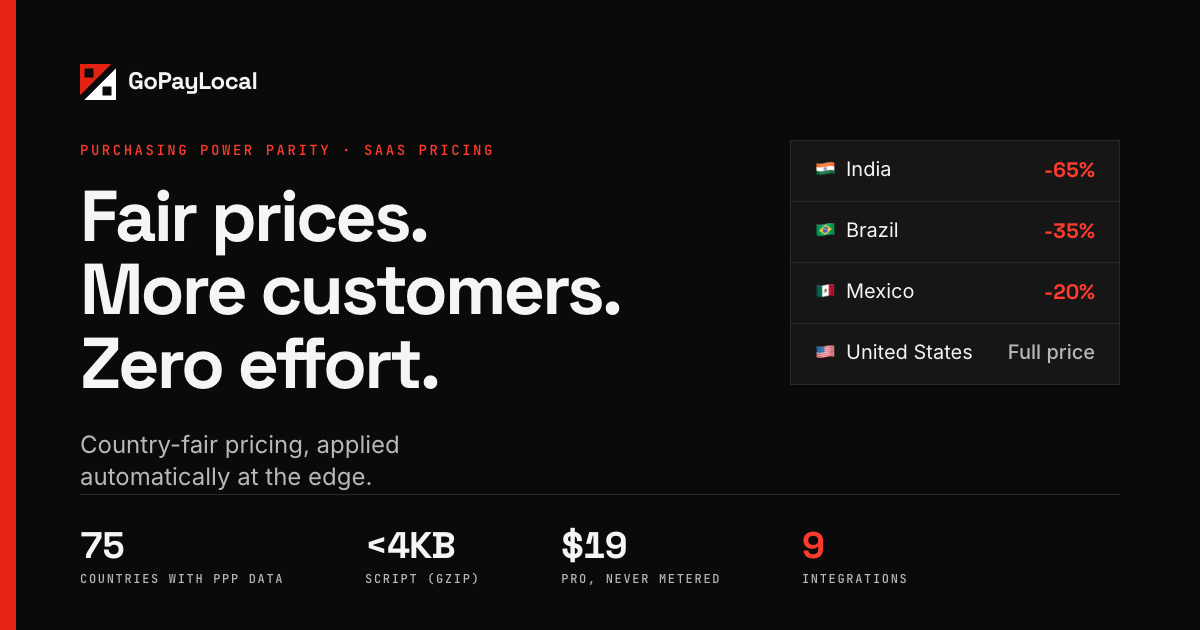
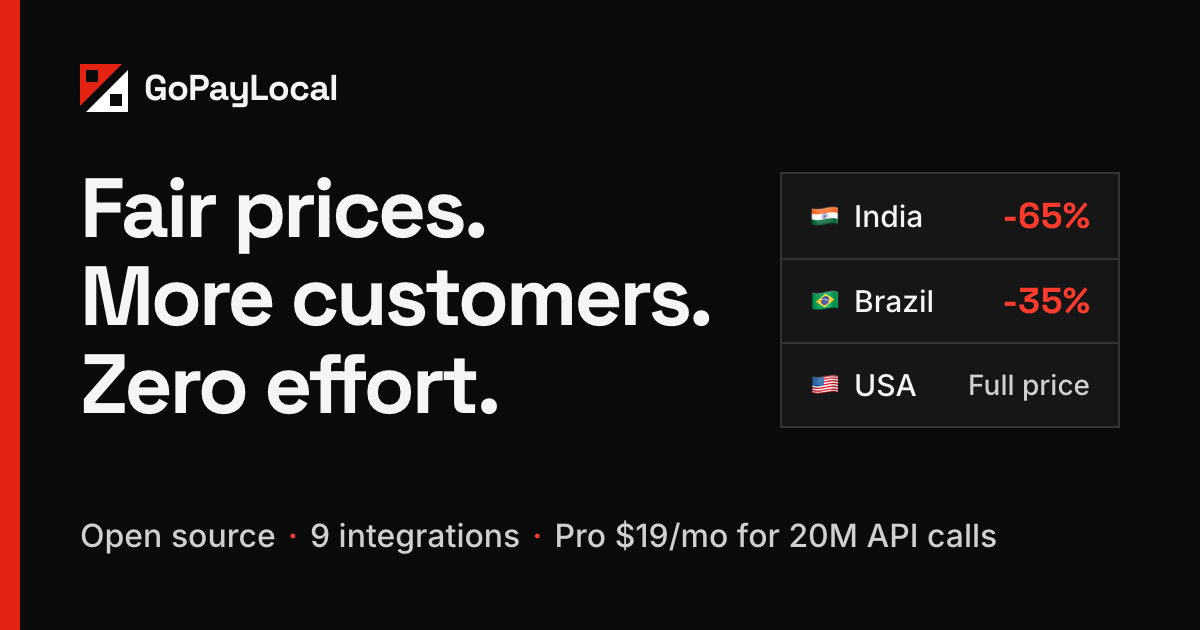
Website: a share image that reads at feed size; Pro's 20M API calls in the stats
Feeds show the share image at about 500px wide, where its 12-24px labels
were unreadable. The new one keeps the logo, the headline, a bigger
three-row country table and one line ("Open source · 9 integrations ·
Pro $19/mo for 20M API calls"), with nothing under 28px.

The $19 stat on the homepage and the developer page now says
"Pro, 20M API calls/mo" instead of "Pro, never metered", from
PRO_FAIR_USE_API_HITS_PER_MONTH.

Claude-Session: https://claude.ai/code/session_01L2XvzdWfxeKtJnPoo1t57u

diff --git a/apps/web/og-image.html b/apps/web/og-image.html
@@ -1,6 +1,7 @@
 <!doctype html>
 <!-- Source of public/og-image.png. Re-render: open this file in Chromium with a 1200x630 viewport at device scale 1, wait for the Google Fonts to load, screenshot the viewport and save it over public/og-image.png.
-     Numbers: 75 = entries in PPP_MULTIPLIERS, <4KB = gzip size of the banner bundle, $19 = PLAN_PRICES_USD.pro.month, 9 = integrations in src/lib/landing-data.ts, table rows = DEFAULT_PARITY_TIERS (packages/shared); update this file when they change. -->
+     Feeds show this image at about 500px wide (300px in chat apps), so nothing here is smaller than 28px. Keep it that way.
+     Numbers: $19 = PLAN_PRICES_USD.pro.month, 20M = PRO_FAIR_USE_API_HITS_PER_MONTH, 9 = integrations in src/lib/landing-data.ts, table rows = DEFAULT_PARITY_TIERS (packages/shared); update this file when they change. -->
 <html lang="en">
 <head>
 <meta charset="utf-8">
@@ -8,14 +9,14 @@
 <title>GoPayLocal OG image</title>
 <link rel="preconnect" href="https://fonts.googleapis.com">
 <link rel="preconnect" href="https://fonts.gstatic.com" crossorigin>
-<link rel="stylesheet" href="https://fonts.googleapis.com/css2?family=Inter:wght@400;500&family=Space+Grotesk:wght@600;700&family=JetBrains+Mono:wght@500&display=block">
+<link rel="stylesheet" href="https://fonts.googleapis.com/css2?family=Inter:wght@500;600&family=Space+Grotesk:wght@700&display=block">
 <style>
   :root {
     --bg: #0A0A0A;
     --surface: #161616;
-    --border: #2A2A2A;
+    --border: #333333;
     --text-1: #F5F5F5;
-    --text-2: #B8B8B8;
+    --text-2: #D0D0D0;
     --accent: #E42313;
     --accent-text: #FF3B2E;
   }
@@ -23,25 +24,20 @@
   html, body { width: 1200px; height: 630px; overflow: hidden; background: var(--bg); }
   body { position: relative; color: var(--text-1); font-family: 'Inter', sans-serif; -webkit-font-smoothing: antialiased; }
   .abs { position: absolute; }
-  .bar { left: 0; top: 0; width: 16px; height: 630px; background: var(--accent); }
-  .brand { left: 80px; top: 64px; display: flex; align-items: center; gap: 12px; }
-  .brand svg { width: 36px; height: 36px; display: block; }
-  .brand span { position: relative; top: -1px; font-family: 'Space Grotesk', sans-serif; font-weight: 700; font-size: 24px; letter-spacing: -0.025em; line-height: 36px; }
-  .tag { left: 80px; top: 140px; font-family: 'JetBrains Mono', monospace; font-weight: 500; font-size: 14px; line-height: 20px; letter-spacing: 0.18em; color: var(--accent-text); white-space: nowrap; }
-  h1 { left: 80px; top: 179.5px; font-family: 'Space Grotesk', sans-serif; font-weight: 700; font-size: 72px; line-height: 73.5px; letter-spacing: -0.04em; white-space: nowrap; }
-  .sub { left: 80px; top: 428.5px; font-size: 24px; line-height: 32px; color: var(--text-2); white-space: nowrap; }
-  .rule { left: 80px; top: 494px; width: 1040px; height: 1px; background: var(--border); }
-  .stats { left: 80px; top: 524px; display: flex; gap: 80.8px; }
-  .stat .num { font-family: 'Space Grotesk', sans-serif; font-weight: 700; font-size: 37px; line-height: 44px; letter-spacing: -0.025em; font-variant-numeric: tabular-nums; }
-  .stat .num.accent { color: var(--accent-text); }
-  .stat .label { margin-top: 3px; font-family: 'JetBrains Mono', monospace; font-weight: 500; font-size: 12px; line-height: 16px; letter-spacing: 0.14em; color: var(--text-2); white-space: nowrap; }
-  .table { left: 790px; top: 140px; width: 330px; border: 1px solid var(--border); background: var(--surface); }
-  .row { height: 60px; display: flex; align-items: center; justify-content: space-between; padding: 0 24px 4px; }
-  .row + .row { border-top: 1px solid var(--border); height: 61px; }
-  .country { display: flex; align-items: center; gap: 10px; font-size: 20px; color: var(--text-1); }
-  .flag { font-size: 18px; line-height: 1; }
-  .pct { font-family: 'Space Grotesk', sans-serif; font-weight: 700; font-size: 21px; color: var(--accent-text); font-variant-numeric: tabular-nums; }
-  .full { font-size: 20px; font-weight: 500; color: var(--text-2); }
+  .bar { left: 0; top: 0; width: 20px; height: 630px; background: var(--accent); }
+  .brand { left: 80px; top: 64px; display: flex; align-items: center; gap: 16px; }
+  .brand svg { width: 48px; height: 48px; display: block; }
+  .brand span { font-family: 'Space Grotesk', sans-serif; font-weight: 700; font-size: 36px; letter-spacing: -0.025em; line-height: 48px; }
+  h1 { left: 80px; top: 164px; font-family: 'Space Grotesk', sans-serif; font-weight: 700; font-size: 84px; line-height: 88px; letter-spacing: -0.04em; white-space: nowrap; }
+  .foot { left: 80px; top: 516px; font-size: 32px; line-height: 40px; font-weight: 500; color: var(--text-2); white-space: nowrap; }
+  .foot b { color: var(--accent-text); font-weight: 600; padding: 0 12px; }
+  .table { right: 80px; top: 172px; width: 340px; border: 2px solid var(--border); background: var(--surface); }
+  .row { height: 84px; display: flex; align-items: center; justify-content: space-between; padding: 0 28px; }
+  .row + .row { border-top: 2px solid var(--border); }
+  .country { display: flex; align-items: center; gap: 14px; font-size: 30px; font-weight: 500; color: var(--text-1); }
+  .flag { font-size: 30px; line-height: 1; }
+  .pct { font-family: 'Space Grotesk', sans-serif; font-weight: 700; font-size: 36px; color: var(--accent-text); font-variant-numeric: tabular-nums; }
+  .full { font-size: 28px; font-weight: 500; color: var(--text-2); }
 </style>
 </head>
 <body>
@@ -55,26 +51,14 @@
     <span>GoPayLocal</span>
   </div>
 
-  <p class="abs tag">PURCHASING POWER PARITY · SAAS PRICING</p>
-
   <h1 class="abs">Fair prices.<br>More customers.<br>Zero effort.</h1>
-
-  <p class="abs sub">Country-fair pricing, applied<br>automatically at the edge.</p>
-
-  <div class="abs rule"></div>
-
-  <div class="abs stats">
-    <div class="stat"><div class="num">75</div><div class="label">COUNTRIES WITH PPP DATA</div></div>
-    <div class="stat"><div class="num">&lt;4KB</div><div class="label">SCRIPT (GZIP)</div></div>
-    <div class="stat"><div class="num">$19</div><div class="label">PRO, NEVER METERED</div></div>
-    <div class="stat"><div class="num accent">9</div><div class="label">INTEGRATIONS</div></div>
-  </div>
 
   <div class="abs table">
     <div class="row"><span class="country"><span class="flag">🇮🇳</span>India</span><span class="pct">-65%</span></div>
     <div class="row"><span class="country"><span class="flag">🇧🇷</span>Brazil</span><span class="pct">-35%</span></div>
-    <div class="row"><span class="country"><span class="flag">🇲🇽</span>Mexico</span><span class="pct">-20%</span></div>
-    <div class="row"><span class="country"><span class="flag">🇺🇸</span>United States</span><span class="full">Full price</span></div>
+    <div class="row"><span class="country"><span class="flag">🇺🇸</span>USA</span><span class="full">Full price</span></div>
   </div>
+
+  <p class="abs foot">Open source<b>·</b>9 integrations<b>·</b>Pro $19/mo for 20M API calls</p>
 </body>
 </html>

diff --git a/apps/web/src/lib/landing-data.ts b/apps/web/src/lib/landing-data.ts
@@ -205,7 +205,7 @@ const fullData: LandingData = {
     stats: [
       { value: String(PPP_COUNTRY_COUNT), label: 'Countries with PPP data' },
       { value: '<4KB', label: 'Script size (gzip)' },
-      { value: `$${PRO_MONTHLY}`, label: 'Pro, never metered' },
+      { value: `$${PRO_MONTHLY}`, label: `Pro, ${compactCount(PRO_FAIR_USE_API_HITS_PER_MONTH)} API calls/mo` },
       { value: String(INTEGRATION_COUNT), label: 'Integrations', accent: true },
     ],
   },
@@ -308,7 +308,7 @@ const revenueData: LandingData = {
     stats: [
       { value: String(PPP_COUNTRY_COUNT), label: 'Countries with PPP data' },
       { value: String(INTEGRATION_COUNT), label: 'Payment integrations' },
-      { value: `$${PRO_MONTHLY}`, label: 'Pro, never metered' },
+      { value: `$${PRO_MONTHLY}`, label: `Pro, ${compactCount(PRO_FAIR_USE_API_HITS_PER_MONTH)} API calls/mo` },
       { value: 'All', label: 'Features on Free', accent: true },
     ],
   },
